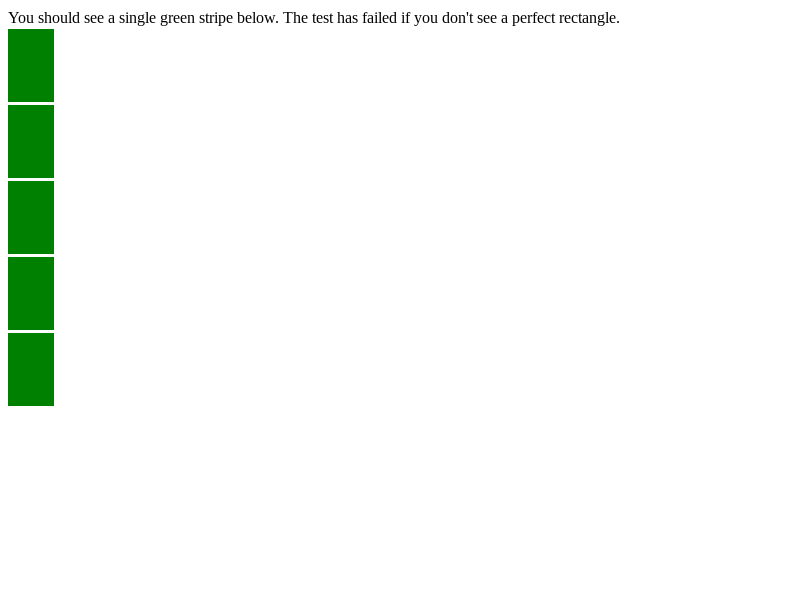
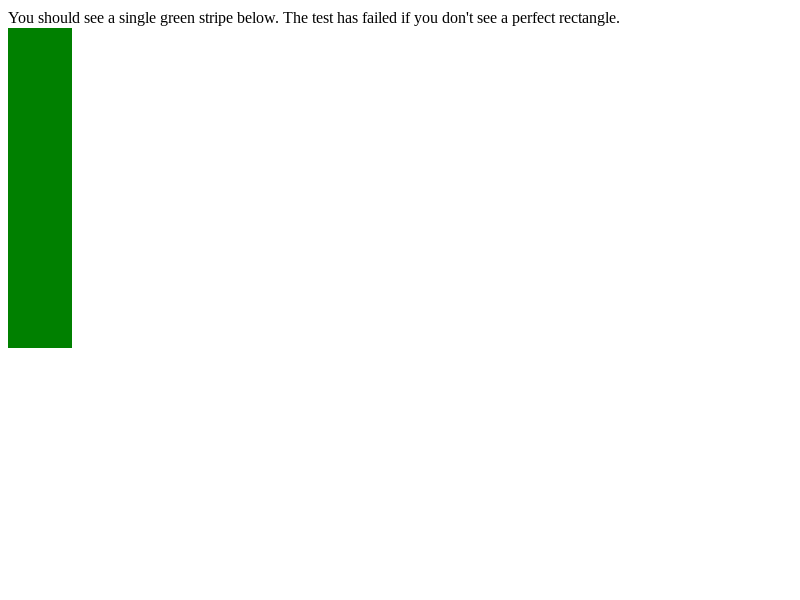
Fix fast/block/positioning/056.html not to rely on glyph widths
fast/block/positioning/056.html relies on "A A" of the default
font is wider than 1.5em.

This patch fixes the assumption by using Ahem.

Subtle change in CL:1022191 hits this dependency.

Commit-Queue: Emil A Eklund <eae@chromium.org>
Cr-Commit-Position: refs/heads/master@{#555067}

Changed region(s): [[0.0, 0.03, 0.0938, 0.69]]

diff --git a/.upstream-WebKit/LayoutTests/fast/block/positioning/056.html b/.upstream-WebKit/LayoutTests/fast/block/positioning/056.html
@@ -3,8 +3,9 @@
 <style>
 #sitemast {
   position: absolute; width:1.5em;
+  font-family: Ahem;
   font-size:400%;
-   }
+}
 #sitemast a {color: green; background: green; padding: 0; text-decoration: none }
 
   </style>
